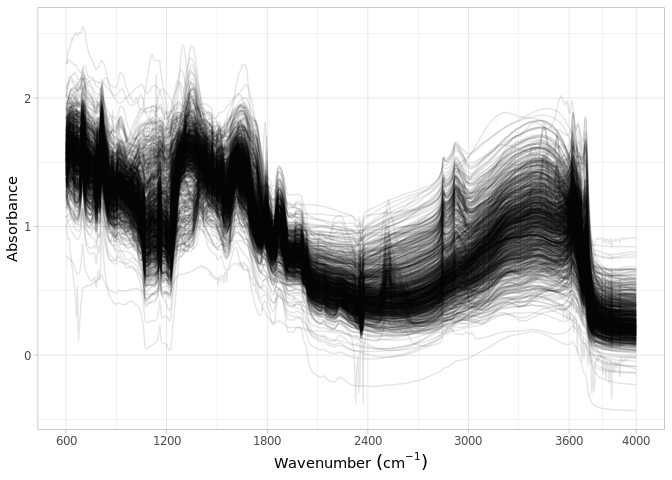
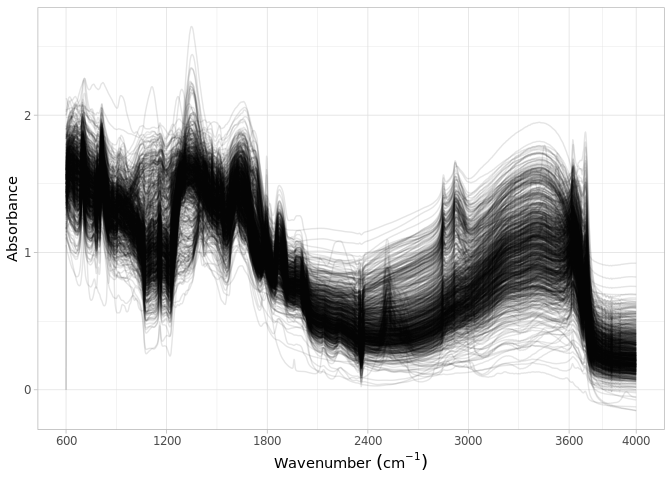
check spectra duplicates

Changed region(s): [[0.0938, 0.125, 0.9688, 0.875], [0.0312, 0.7188, 0.0625, 0.75], [0.0312, 0.1875, 0.0625, 0.2188]]

diff --git a/dataset/KSSL/README.md b/dataset/KSSL/README.md
@@ -4,7 +4,7 @@ Jose Lucas Safanelli (<jsafanelli@woodwellclimate.org>), Tomislav Hengl
 (<tom.hengl@opengeohub.org>), Jonathan Sanderman
 (<jsanderman@woodwellclimate.org>), Develyn Bloom
 (<develyn.bloom@ufl.edu>) -
-27 December, 2022
+28 December, 2022
 
 
 
@@ -32,7 +32,7 @@ License](http://creativecommons.org/licenses/by-sa/4.0/).
 Part of: <https://github.com/soilspectroscopy>  
 Project: [Soil Spectroscopy for Global
 Good](https://soilspectroscopy.org)  
-Last update: 2022-12-27  
+Last update: 2022-12-28  
 Dataset:
 [KSSL.SSL](https://soilspectroscopy.github.io/ossl-manual/soil-spectroscopy-tools-and-users.html#kssl.ssl)
 
@@ -701,6 +701,7 @@ preparation. We will focus only on XS and XN prep scans.
 
 ``` r
 dir.mir <- paste0(dir.files, "/KSSL_MIR_export")
+dir.db <- paste0(dir.files, "/All_Spectra_Access_Portable_20220712")
 
 # Already formatted to 600-4000 cm-1, with 2 cm-1 interval
 mir.scans <- fread(paste0(dir.mir, "/KSSL_202207_MIR_spectra_all_avg.csv"), header = TRUE)
@@ -790,7 +791,7 @@ scans.summary %>%
     ##   check                 count
     ##   <chr>                 <int>
     ## 1 proportion_higherAbs5    31
-    ## 2 proportion_lower0        33
+    ## 2 proportion_lower0        34
 
 ``` r
 # These few scans with extreme values are removed - getting ids
@@ -802,45 +803,41 @@ extreme.ids <- scans.summary %>%
 kssl.mir <- kssl.mir %>%
   filter(!(id.scan_local_c %in% extreme.ids))
 
-# # Spectral duplicates
-# scans.duplicates <- kssl.mir %>%
-#   mutate(product = scan_mir.600_abs*scan_mir.1000_abs*scan_mir.1500_abs*
-#            scan_mir.2000_abs*scan_mir.2500_abs*scan_mir.3000_abs*
-#            scan_mir.3500_abs*scan_mir.4000_abs) %>%
-#   select(id.scan_local_c, product)
-# 
-# scans.duplicates %>%
-#   group_by(product) %>%
-#   summarise(rep = n()) %>%
-#   group_by(rep) %>%
-#   summarise(n = n())
-# 
-# spec.dupli.value <- scans.duplicates %>%
-#   group_by(product) %>%
-#   summarise(rep = n()) %>%
-#   filter(rep > 1) %>%
-#   pull(product)
-# 
-# spec.dupli.id <- scans.duplicates %>%
-#   filter(product %in% spec.dupli.value) %>%
-#   pull(id.scan_local_c)
-# 
-# kssl.mir.check <- kssl.mir %>%
-#   filter(id.scan_local_c %in% spec.dupli.id)
-# 
-# kssl.mir.check %>%
-#   select(id.scan_local_c, scan_mir.600_abs, scan_mir.1000_abs, scan_mir.1500_abs,
-#          scan_mir.2000_abs, scan_mir.2500_abs, scan_mir.3000_abs,
-#          scan_mir.3500_abs, scan_mir.4000_abs) %>%
-#   View()
-# 
-# kssl.mir.check %>%
-#   sample_n(100) %>%
-#   select(-id.layer_local_c) %>%
-#   pivot_longer(-id.scan_local_c, names_to = "wavenumber", values_to = "absorbance") %>%
-#   mutate(wavenumber = as.numeric(gsub("scan_mir.|_abs", "", wavenumber))) %>%
-#   ggplot(aes(x = wavenumber, y = absorbance, group = id.scan_local_c)) +
-#   geom_line(alpha = 0.25, size = 0.25) + theme_light()
+# Spectral duplicates, i.e., same spectra but different id
+sum.columns <- as.character(seq(600, 4000, by = 50))
+
+scans.duplicates <- kssl.mir %>%
+  select(-id.scan_local_c, -id.layer_local_c, contains(sum.columns)) %>%
+  apply(., 1, function(x) {sum(x, na.rm = T)}) %>%
+  tibble(sum = .) %>%
+  bind_cols({kssl.mir %>% select(id.scan_local_c)}, .)
+
+scans.duplicates %>%
+  group_by(sum) %>%
+  summarise(repeats = n()) %>%
+  group_by(repeats) %>%
+  summarise(n_spectra = n())
+```
+
+    ## # A tibble: 2 × 2
+    ##   repeats n_spectra
+    ##     <int>     <int>
+    ## 1       1     82745
+    ## 2       2        58
+
+``` r
+spec.dupli.value <- scans.duplicates %>%
+  group_by(sum) %>%
+  summarise(repeats = n()) %>%
+  filter(repeats > 1) %>%
+  pull(sum)
+
+spec.dupli.id <- scans.duplicates %>%
+  filter(sum %in% spec.dupli.value) %>%
+  pull(id.scan_local_c)
+
+kssl.mir <- kssl.mir %>%
+  filter(!(id.scan_local_c %in% spec.dupli.id))
 
 # Metadata
 metadata1 <- fread(paste0(dir.mir, "/KSSL_202207_MIR_metadata_20221003.csv"), header = TRUE) %>%
@@ -1034,12 +1031,12 @@ kssl.availability %>%
     ## # A tibble: 6 × 2
     ##   column                    count
     ##   <chr>                     <int>
-    ## 1 c.tot_usda.a622_w.pct     86636
-    ## 2 id.layer_local_c          92624
-    ## 3 id.scan_local_c           92624
-    ## 4 layer.upper.depth_usda_cm 92183
-    ## 5 scan_mir.600_abs          82840
-    ## 6 scan_visnir.350_ref       19829
+    ## 1 c.tot_usda.a622_w.pct     86532
+    ## 2 id.layer_local_c          92512
+    ## 3 id.scan_local_c           92512
+    ## 4 layer.upper.depth_usda_cm 92071
+    ## 5 scan_mir.600_abs          82723
+    ## 6 scan_visnir.350_ref       19807
 
 ``` r
 # Repeats check - There are 60 samples duplicated due to different MIR preparations
@@ -1057,9 +1054,9 @@ kssl.availability %>%
     ## # Groups:   column [2]
     ##   column           repeats count
     ##   <chr>              <int> <int>
-    ## 1 id.layer_local_c       1 92504
-    ## 2 id.layer_local_c       2    60
-    ## 3 id.scan_local_c        1 92624
+    ## 1 id.layer_local_c       1 92436
+    ## 2 id.layer_local_c       2    38
+    ## 3 id.scan_local_c        1 92512
 
 This summary shows that, at total, about 92k observations are available.
 Some rows have both MIR and VisNIR scans, many not. As we have repeats
@@ -1223,16 +1220,16 @@ kssl.visnir %>%
 toc()
 ```
 
-    ## 192.357 sec elapsed
+    ## 197.208 sec elapsed
 
 ``` r
 rm(list = ls())
 gc()
 ```
 
-    ##            used  (Mb) gc trigger   (Mb)   max used   (Mb)
-    ## Ncells  2619514 139.9   15686337  837.8   19607921 1047.2
-    ## Vcells 35779066 273.0  962181220 7340.9 1002205219 7646.3
+    ##            used (Mb) gc trigger   (Mb)   max used   (Mb)
+    ## Ncells  2619664  140   15686490  837.8   19608112 1047.2
+    ## Vcells 35781256  273  801767152 6117.0 1002208640 7646.3
 
 ## References
 
